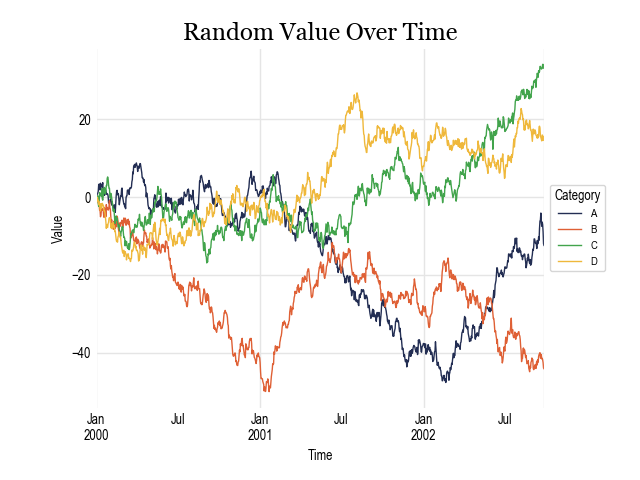
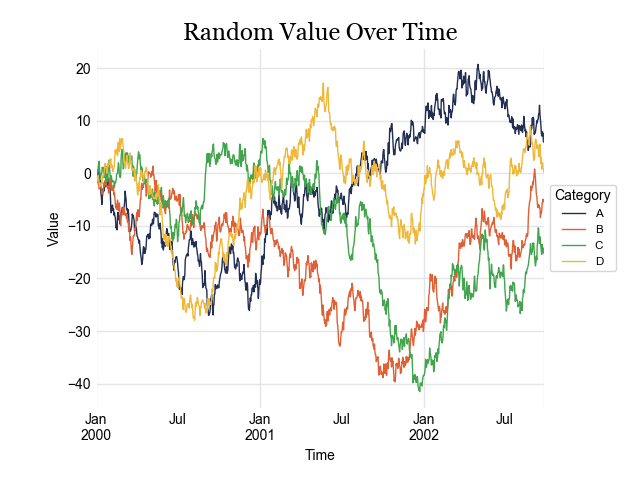
Deleted commented old sentences, updating the cycler color in mmviz.mplstyle to apply the dark blue color as default color,  regenerate the pictures

diff --git a/mmviz.py b/mmviz.py
@@ -4,16 +4,11 @@ import matplotlib.pyplot as plt
 from cycler import cycler
 from matplotlib.font_manager import FontProperties
 
-#MMVIZ_BRAND_FONT_SERIF = ["Times", "Times New Roman", "serif"]
 MMVIZ_BRAND_FONT_SERIF = ["FreightText", "Georgia", "Times New Roman", "Times", "serif"]
-#MMVIZ_BRAND_FONT_SANS_SERIF = ["Univers 47 Condensed Light", "Univers 57 Condensed",
-#                               "Arial Narrow", "Arial", "sans-serif"]
 MMVIZ_BRAND_FONT_SANS_SERIF = ["BrandonText", "Helvetica", "Arial", "sans-serif"]
 
-#MMVIZ_COLOR_PALETTE_QUAL_DARK = ["#7570b3", "#d95f02", "#1b9e77", "#a6761d", "#e6ab02", "#666666", "#e7298a", "#66a61e"]
 MMVIZ_COLOR_PALETTE_QUAL_DARK = ["#232E53", "#DF6035", "#42A44C", "#EFB83B", "#855AA1", "#69A5AC", "#D7313E", "#318FBF"]
 
-#MMVIZ_COLOR_PALETTE_QUAL_LIGHT = ["#8da0cb", "#fc8d62", "#66c2a5", "#e5c494", "#ffd92f", "#b3b3b3", "#e78ac3", "#a6d854"]
 MMVIZ_COLOR_PALETTE_QUAL_LIGHT = ["#5F6781", "#E78B6C", "#75BC7C", "#F3CB70", "#A687BA", "#94BFC2", "#E16972", "#69ADD0"]
 
 MMVIZ_COLOR_PALETTE_QUAL_ALT_DARK = MMVIZ_COLOR_PALETTE_QUAL_DARK + MMVIZ_COLOR_PALETTE_QUAL_LIGHT
